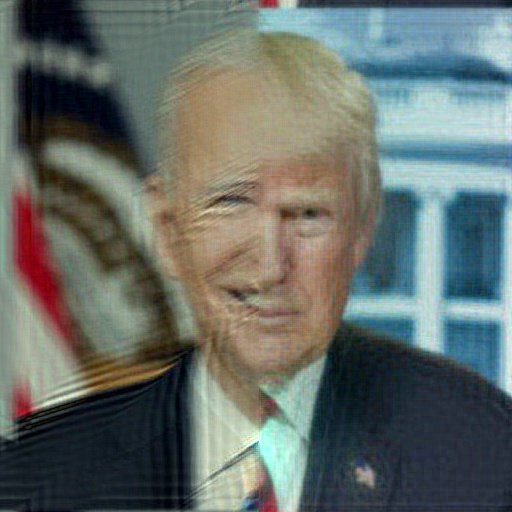
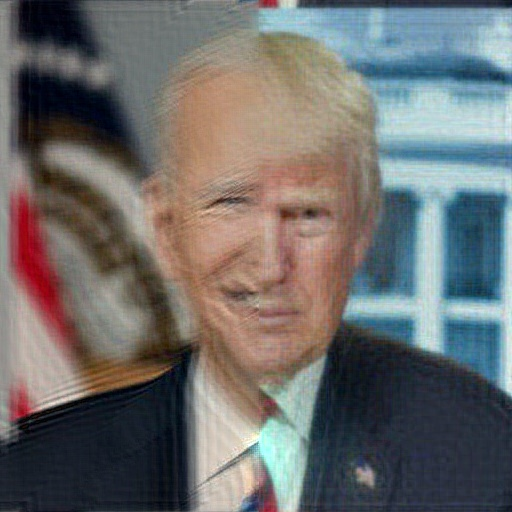
fix bugs in Motion Blur kernel

diff --git a/main.py b/main.py
@@ -54,13 +54,16 @@ def get_MotionBlur_kernel(size, a, b, T):
     :return: MotionBlur kernel in frequency domain
     """
     kernel = np.zeros((size, size)).astype(np.complex128)
-    for u in range(size):
-        for v in range(size):
+    for u in range(-size // 2, size // 2):
+        for v in range(-size // 2, size // 2):
             param = np.pi * (u * a + v * b)
             if param == 0:
-                kernel[u][v] = T * np.exp(-1.0j * param)
+                kernel[u + size // 2][v + size // 2] = T * np.exp(-1.0j * param)
             else:
-                kernel[u][v] = T / param * np.sin(param) * np.exp(-1.0j * param)
+                kernel[u + size // 2][v + size // 2] = T / param * np.sin(param) * np.exp(-1.0j * param)
+    img = np.abs(kernel)
+    img = (img - np.min(img)) / (np.max(img) - np.min(img))
+    cv2.imwrite("MB_kernel.jpg", img * 255)
     return kernel
 
 
@@ -80,8 +83,9 @@ def restore_Trump(img, R=None, K=150):
     return restored_img
 
 
-def restore_Biden(img, a=0.025, b=-0.025, T=50, K=20):
+def restore_Biden(img, a=0.0205, b=-96 / 57 * 0.0205, T=100, K=100):
     img_gray = cv2.cvtColor(img, cv2.COLOR_BGR2GRAY)
+    # Biden_fft = visualize_DFT(img_gray, display=True)
     MB_kernel = get_MotionBlur_kernel(img_gray.shape[0], a, b, T)
     restored_img = Wiener_filter(img, MB_kernel, K)
     return restored_img
@@ -102,7 +106,7 @@ def Wiener_filter(img, kernel, K):
     else:
         img_fft = DFT(img)
         res_fft = np.conj(kernel) / (np.abs(kernel) ** 2 + K)
-        res = np.abs(np.fft.ifft2(np.fft.ifftshift(img_fft * res_fft)))
+        res = np.abs(IDFT(img_fft * res_fft))
         res = ((res - np.min(res)) / (np.max(res) - np.min(res)) * 255).astype(np.uint8)
         return res
 
@@ -115,6 +119,6 @@ if __name__ == "__main__":
     res_Biden = restore_Biden(Biden)
     cv2.imwrite('restored_Trump.jpg', res_Trump)
     cv2.imwrite('restored_Biden.jpg', res_Biden)
-    pyramids = Pyramids()
-    blend = pyramids.pyramid_blending(res_Trump, res_Biden, mask)
-    cv2.imwrite('Biden&Trump.jpg', pyramids.reconstruct(blend))
+    # pyramids = Pyramids()
+    # blend = pyramids.pyramid_blending(res_Trump, res_Biden, mask)
+    # cv2.imwrite('Biden&Trump.jpg', pyramids.reconstruct(blend))
